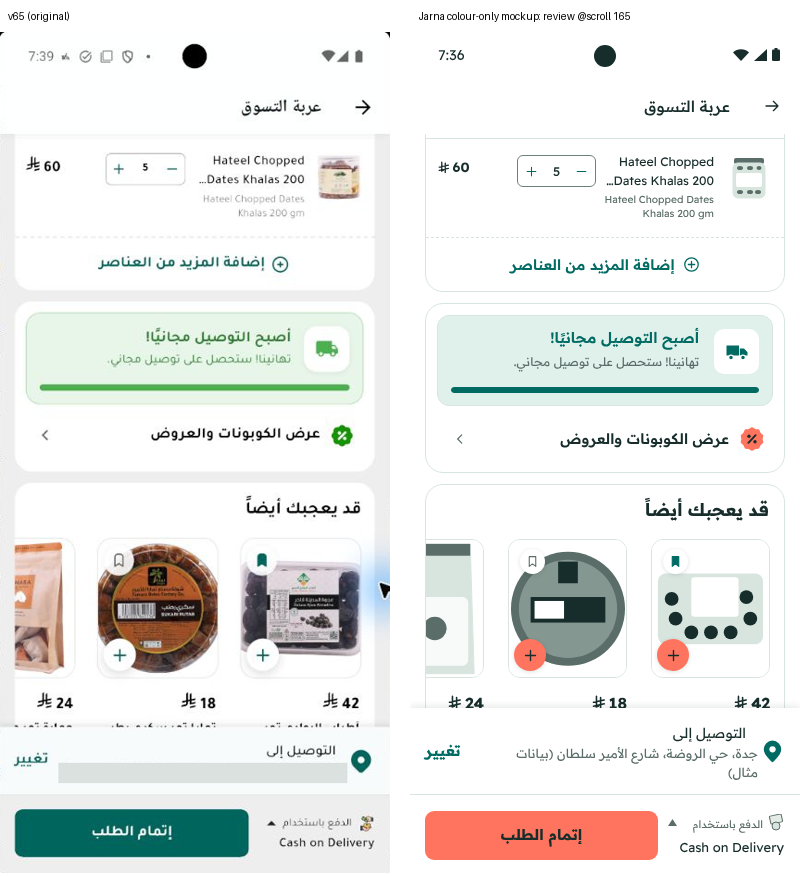
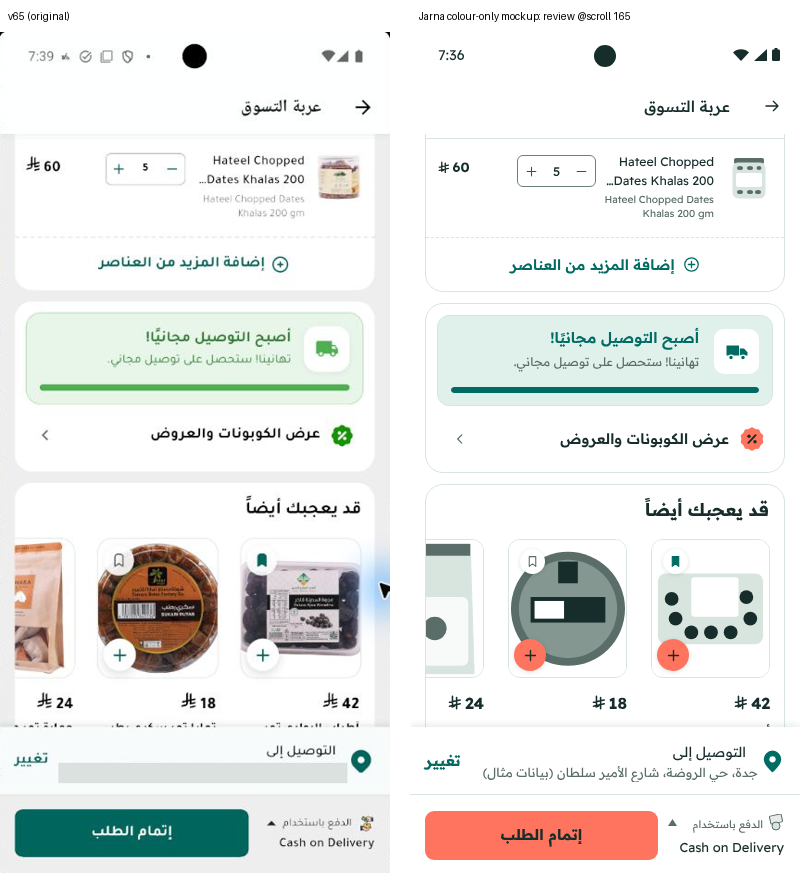
Fix cart/review critique items: address bar height, arrows, tags, borders, K7 alt, loading note
Claude-Session: https://claude.ai/code/session_01Qb8xUvC7Auf1qNT2o2kfnj

Changed region(s): [[0.5312, 0.8322, 0.9688, 0.8938]]

diff --git a/design/outputs/screens/HANDOFF-cart-review.md b/design/outputs/screens/HANDOFF-cart-review.md
@@ -5,6 +5,7 @@
 - **النطاق:** `CART-S01` (السلة) وحالة المراجعة منها (`CHECKOUT-02/03`)، وورقة اختيار العنوان (`CHECKOUT-04`).
 - **المراجع:** تقريرا `audit/cart-2026-10-20.md` و`audit/review-2026-10-20.md` (خرائط الألوان هي الدليل عنصراً بعنصر)، و`system/` (التوكنز)، ولقطات v65 في `design/inputs/drive/`.
 - **يُدمج لاحقاً في `HANDOFF.md`.** لم يُعدَّل `HANDOFF.md` ولا `CONFLICTS.md`.
+- **الجولة 2 (بعد `CRITIQUE-cart-review.md`):** نُفّذت البنود العشرة "يجب إصلاحه" وسبعة من "يُستحسن". التفاصيل في القسم 10.
 
 > **المراجعة ليست شاشة مستقلة.** في v65 هي شاشة السلة نفسها (العنوان «عربة التسوق»، ونفس البطاقات بنفس الترتيب)، والذي يتغير هو الشريط السفلي فقط: يظهر جزء طريقة الدفع، ويصبح الزر «إتمام الطلب» بعرض 233px تقريباً. على عبيد أن يبنيها حالةً من نفس الويدجت، لا شاشة جديدة.
 
@@ -19,7 +20,8 @@
 | `cart.html` | CART-04 (منتج واحد، قبل أهلية التوصيل المجاني، الملاحظة مطوية)، ويكمل بالتمرير إلى الإكرامية والفاتورة | `cart.png` | `cart-full.png` |
 | `cart-note-open.html` | CART-05 و06 و07 (الملاحظة مفتوحة) | `cart-note-open.png` | `cart-note-open-full.png` |
 | `cart-saved-location.html` | CART-01 (منتجان، التوصيل المجاني محقق، «قد يعجبك أيضاً»، الزر «احفظ هذا الموقع كعنوان») | `cart-saved-location.png` | `cart-saved-location-full.png` |
-| `cart-loading.html` | CART-03 (التحميل) | `cart-loading.png` | — |
+| `cart-loading.html` | CART-03 (التحميل)، الزر بلون التعطيل **مشروطاً** بملاحظة داخل النموذج | `cart-loading.png` | — |
+| `cart-loading-active.html` | CART-03، النسخة البديلة: الزر مرجاني فعّال كما يظهر في v65 | `cart-loading-active.png` | — |
 | `review.html` | CHECKOUT-02 و03 (قبل الإرسال) | `review.png` | `review-full.png` |
 | `review-plus-alt.html` | بديل K7 لنفس الحالة: «+» بإطار بترولي وتعبئة بيضاء | `review-plus-alt.png` | `review-plus-alt-full.png` |
 | `review-address-picker.html` | CHECKOUT-04 (ورقة «اختر عنوان التوصيل») | `review-address-picker.png` | — |
@@ -37,13 +39,13 @@
 | `cart-note-open-316_vs_CART-06.png` | الملاحظة والإكرامية (تمرير 316) |
 | `cart-note-open-492_vs_CART-07.png` | الإكرامية وأعلى الفاتورة (تمرير 492) |
 | `cart-saved-location_vs_CART-01.png` | السلة بمنتجين |
-| `cart-loading_vs_CART-03.png` | التحميل |
+| `cart-loading_vs_CART-03.png` | التحميل: v65، ثم النسخة المعطلة (مشروطة)، ثم النسخة المرجانية |
 | `review_vs_CHECKOUT-02.png` | المراجعة قبل الإرسال |
 | `review-165_vs_CHECKOUT-03.png` | المراجعة بعد التمرير إلى التوصيات |
 | `review-plus-alt-165_vs_CHECKOUT-03.png` | بديل K7 |
 | `review-address-picker_vs_CHECKOUT-04.png` | ورقة العنوان |
 
-**ملاحظة تقنية عن التصوير:** `scripts/screenshot.cjs --full` يرسم الشريط السفلي الثابت (fixed أو sticky) في منتصف الصفحة، لأن Playwright يحسب موضعه من نافذة 844. لذلك صُوّرت لقطات `-full.png` بفتح الملف مع `?full`، وهذا يضع الشريط في مجرى الصفحة بعد المحتوى (الصنف `.full` في `cart.css`). أما `<name>.png` فهو ناتج `screenshot.cjs` العادي (الإطار الأول 390×844). يُقترح تعديل السكربت لاحقاً ليمرر `?full` تلقائياً مع `--full`.
+**ملاحظة تقنية عن التصوير:** `<name>.png` ناتج `scripts/screenshot.cjs` دون `--full` (الإطار الأول 390×844). و`<name>-full.png` الصفحة كاملة بفتح الملف مع `?full`، وهذا يضع الشريط السفلي في مجرى الصفحة بعد المحتوى (الصنف `.full` في `cart.css`). السكربت يمرّر `?full` تلقائياً مع `--full`.
 
 ---
 
@@ -59,101 +61,109 @@
 | T6 | أزرار «+» في التوصيات (K7/C17): القاعدة كما هي (مرجاني برمز حبري) في `review.html`، والبديل بإطار بترولي وتعبئة بيضاء في `review-plus-alt.html` | K7 | لا تغيير. انظر القسم 6 |
 | T7 | منتقي العنوان: المختارة بحد بترولي 2px ورأس نعناعي، وغير المختارة بحد `#D8E5DF` بدل الأزرق `#CADDEB` | AUD-REV-11 | لا تغيير |
 | T8 | الحدود: حد التحكم `#6B8179` (الكمية، حقل الملاحظة، رقائق الإكرامية)، والفاصل `#D8E5DF` (البطاقات، الفواصل، المسار، المقبض) | C8، Q3 | لا تغيير |
+| X1 | **قرار:** عنوان لوحة التوصيل المجاني قبل الأهلية (F5) بترولي `#006B63` (5.47:1)، اتباعاً لقاعدة المكونات «التوصيل المجاني قبل الأهلية: … نص أخضر» لأنها توجيه، بدل الحبري في خريطة التدقيق | CRITIQUE X1 | لا تغيير. يُعرض على فضل: البديل هو الحبري `#172D2B` |
+| X4 | الشريط السفلي: ظل v65 فوقه (لا خط)، توحيداً مع تسليم الرئيسية. يبقى الفاصل الرفيع بين شريط العنوان وشريط الزر (P9) | CRITIQUE X4 | لا تغيير |
 | T9 | حد `#D8E5DF` حول كل بطاقة بيضاء، لأن الخلفية صارت بيضاء والبطاقات كانت تنفصل بالرمادي `#EEEEEE` | Q4 (قاعدة «البطاقة البيضاء»: حد خفيف عند الحاجة) | لا تغيير |
-| T10 | زر التحميل بلون التعطيل `#E5EBE7` ونص `#5A6D68` (4.54:1) | A10، AUD-CART-11 | لا تغيير. انظر القسم 5 |
-| T11 | التعتيم خلف الورقة `#172D2B` بشفافية 40% | C12 (prior-reference) | ينتظر الاعتماد |
+| T10 | زر التحميل بلون التعطيل `#E5EBE7` ونص `#5A6D68` (4.54:1) **مشروطاً** بأن يكون معطلاً فعلاً. وإلا فالنسخة المرجانية `cart-loading-active.html` | A10، AUD-CART-11 | لا تغيير. انظر القسم 5 |
+| T11 | التعتيم خلف الورقة `#172D2B` بشفافية 40% | C12 (prior-reference)، CRITIQUE X3 | ينتظر الاعتماد. **بديل لقرار فضل:** v65 المقاس أعتم، نحو 54% أسود (`#757575` فوق الأبيض). الأقرب إليه من الحبري نحو 55% |
 
 ---
 
 ## 3. الأدوار اللونية لكل عنصر
 
-الرموز (G1، I4، F7…) من خرائط تقريري التدقيق. التوكن هو المتغير في `tokens.css`.
+الرموز (G1، I4، F7…) من خرائط تقريري التدقيق. عمود CSS هو المتغير في `tokens.css`، وعمود Dart هو الثابت في `JarnaColors` (`system/jarna_colors.dart`).
 
 ### 3.1 الإطار والرأس
-| العنصر | v65 تقريباً | الآن | التوكن |
-|---|---|---|---|
-| G1 خلفية الصفحة | `#EEEEEE` | `#FFFFFF` | `--jarna-background` |
-| G2 البطاقات | `#FFFFFF` | `#FFFFFF` + حد `#D8E5DF` (T9) | `--jarna-surface`، `--jarna-border` |
-| G3 الرأس | أبيض | أبيض + خط سفلي `#D8E5DF` (انظر القسم 5) | `--jarna-surface`، `--jarna-border` |
-| G4/G5 «عربة التسوق» وسهم الرجوع | أسود | `#172D2B` | `--jarna-inner-header-title` |
+| العنصر | v65 تقريباً | الآن | CSS | Dart |
+|---|---|---|---|---|
+| G1 خلفية الصفحة | `#EEEEEE` | `#FFFFFF` | `--jarna-background` | `background` |
+| G2 البطاقات | `#FFFFFF` | `#FFFFFF` + حد `#D8E5DF` (T9) | `--jarna-surface`، `--jarna-border` | `surface`، `border` |
+| G3 الرأس | أبيض | أبيض، **بلا خط سفلي** | `--jarna-surface` | `surface` |
+| G4/G5 «عربة التسوق» وسهم الرجوع | أسود | `#172D2B` | `--jarna-inner-header-title` | `innerHeaderTitle` |
 
 ### 3.2 بطاقة «عناصر»
-| العنصر | الآن | التوكن |
-|---|---|---|
-| I1 «عناصر»، I5 اسم المنتج، I7 السعر، I11 رقم الكمية | `#172D2B` | `--jarna-text`، `--jarna-price` |
-| I2 «منتجان/منتج واحد»، I6 السطر الثاني | `#5A6D68` (5.49:1) | `--jarna-text-secondary` |
-| I3/I4 «مسح» | نص وأيقونة وحد `#B42318` على `#FFF0ED` | `--jarna-error`، `--jarna-error-surface` |
-| I8 حد محدد الكمية | `#6B8179` (4.17:1 غير نصي) | `--jarna-control-border` |
-| I9/I10 «+» و«−» | كلاهما `#006B63` (كانا مختلفين) | `--jarna-icon-action` |
-| الفاصل بين الصفوف، I12 الفاصل المتقطع | `#D8E5DF` | `--jarna-border` |
-| I13/I14 «إضافة المزيد من العناصر» وأيقونة ⊕ | `#006B63` (رابط تصفح، ليس إضافة منتج) | `--jarna-link` |
+| العنصر | الآن | CSS | Dart |
+|---|---|---|---|
+| I1 «عناصر»، I5 اسم المنتج، I7 السعر، I11 رقم الكمية | `#172D2B` | `--jarna-text`، `--jarna-price` | `text`، `price` |
+| I2 «منتجان/منتج واحد»، I6 السطر الثاني | `#5A6D68` (5.49:1) | `--jarna-text-secondary` | `textSecondary` |
+| I3/I4 «مسح» | نص وأيقونة وحد `#B42318` على `#FFF0ED` | `--jarna-error`، `--jarna-error-surface` | `error`، `errorSurface` |
+| I8 حد محدد الكمية (المحدد المحدَّد بإطار في السلة) | `#6B8179` (4.17:1 غير نصي) | `--jarna-control-border` | `controlBorder` |
+| I9/I10 «+» و«−» | كلاهما `#006B63` (كانا مختلفين) | `--jarna-icon-action` | `iconAction` |
+| الفاصل بين الصفوف، I12 الفاصل المتقطع | `#D8E5DF` | `--jarna-border` | `border` |
+| I13/I14 «إضافة المزيد من العناصر» وأيقونة ⊕ | `#006B63` (رابط تصفح، ليس إضافة منتج) | `--jarna-link` | `link` |
+
+> محدد الكمية في السلة **بإطار** كما في v65، فلا يستخدم `quantityStepper`/`onQuantityStepper` (الكبسولة الممتلئة في الرئيسية والفئات).
 
 ### 3.3 التوصيل المجاني والكوبونات
-| العنصر | الآن | التوكن |
-|---|---|---|
-| F1/F9 خلفية اللوحة (قبل الأهلية وبعدها) | `#E0F1EC` | `--jarna-supportive-panel` |
-| F2/F10 حد اللوحة | `#D8E5DF` | `--jarna-border` |
-| F3 مربع الشاحنة | `#FFFFFF` | `--jarna-surface` |
-| F4/F11 الشاحنة | `#006B63` | `--jarna-confirmed-free-delivery` |
-| F5 «احصل على توصيل مجاني» | `#172D2B` | `--jarna-text` |
-| F12 «أصبح التوصيل مجانيًا!» | `#006B63` (5.47:1 على النعناعي) | `--jarna-confirmed-free-delivery` |
-| F6 «أضف منتجات بقيمة 40 ⃁ إضافية»، F13 «تهانينا!…» | `#5A6D68` (4.70:1 على النعناعي) | `--jarna-text-secondary` |
-| F7/F14 التقدم | `#006B63` (T4) | `--jarna-confirmed-free-delivery` (مؤقتاً بدل `--jarna-free-delivery-progress`) |
-| F8 المسار | `#D8E5DF` | `--jarna-free-delivery-track` |
-| F15 أيقونة الكوبون | شارة `#FF745E` ورمز `#172D2B` | `--jarna-offer-icon`، `--jarna-on-offer-icon` |
-| F16 «عرض الكوبونات والعروض» | `#172D2B` | `--jarna-text` |
-| F17 السهم ‹ | `#5A6D68` | `--jarna-icon-neutral` |
+| العنصر | الآن | CSS | Dart |
+|---|---|---|---|
+| F1/F9 خلفية اللوحة (قبل الأهلية وبعدها) | `#E0F1EC` | `--jarna-supportive-panel` | `supportivePanel` |
+| F2/F10 حد اللوحة | `#D8E5DF` | `--jarna-border` | `border` |
+| F3 مربع الشاحنة | `#FFFFFF` | `--jarna-surface` | `surface` |
+| F4/F11 الشاحنة | `#006B63` | `--jarna-confirmed-free-delivery` | `confirmedFreeDelivery` |
+| F5 «احصل على توصيل مجاني» | `#006B63` (X1، قاعدة «نص أخضر») | `--jarna-confirmed-free-delivery` | `confirmedFreeDelivery` |
+| F12 «أصبح التوصيل مجانيًا!» | `#006B63` (5.47:1 على النعناعي) | `--jarna-confirmed-free-delivery` | `confirmedFreeDelivery` |
+| F6 «أضف منتجات بقيمة 40 ⃁ إضافية»، F13 «تهانينا!…» | `#5A6D68` (4.70:1 على النعناعي) | `--jarna-text-secondary` | `textSecondary` |
+| F7/F14 التقدم | `#006B63` (T4) | `--jarna-confirmed-free-delivery` (مؤقتاً بدل `--jarna-free-delivery-progress`) | `confirmedFreeDelivery` (مؤقتاً بدل `freeDeliveryProgress`) |
+| F8 المسار | `#D8E5DF` | `--jarna-free-delivery-track` | `freeDeliveryTrack` |
+| F15 أيقونة الكوبون | شارة `#FF745E` ورمز `#172D2B` | `--jarna-offer-icon`، `--jarna-on-offer-icon` | `offerIcon`، `onOfferIcon` |
+| F16 «عرض الكوبونات والعروض» | `#172D2B` | `--jarna-text` | `text` |
+| F17 السهم ‹ | `#5A6D68` | `--jarna-icon-neutral` | `iconNeutral` |
 
 ### 3.4 الملاحظة والإكرامية والفاتورة
-| العنصر | الآن | التوكن |
-|---|---|---|
-| N1 أيقونة الملاحظة | `#006B63` | `--jarna-icon-action` |
-| N2 العنوان، T2، T6 المبالغ، B1، B3، B4 | `#172D2B` | `--jarna-text`، `--jarna-price` |
-| N3 السهم ˅/˄، B2 أيقونات الفاتورة | `#5A6D68` | `--jarna-icon-neutral` |
-| N4 التلميح، N6 النص البديل، N7 «0/300»، T3، B5 التلميح تحت الرسوم | `#5A6D68` | `--jarna-text-secondary` |
-| N5 حد الحقل | `#6B8179`، والتركيز `#006B63` (غير مرسوم) | `--jarna-control-border`، `--jarna-focus-border` |
-| T4/T5 رقائق الإكرامية | خلفية `#FFFFFF` وحد `#6B8179` | `--jarna-surface`، `--jarna-control-border` |
-| T8 الرقاقة المختارة | **غير مرسومة** (لم تُصوَّر). المتوقع: خلفية `#E0F1EC` وحد `#006B63` ونص `#172D2B` | `--jarna-selection-*` |
-| B5 «أضف منتجات بقيمة 40 ⃁ للحصول على توصيل مجاني» | `#5A6D68` (كان بترولياً داكناً، لكنه ليس رابطاً) | `--jarna-text-secondary` |
+| العنصر | الآن | CSS | Dart |
+|---|---|---|---|
+| N1 أيقونة الملاحظة | `#006B63` | `--jarna-icon-action` | `iconAction` |
+| N2 العنوان، T2، T6 المبالغ، B1، B3، B4 | `#172D2B` | `--jarna-text`، `--jarna-price` | `text`، `price` |
+| N3 السهم ˅/˄، B2 أيقونات الفاتورة | `#5A6D68` | `--jarna-icon-neutral` | `iconNeutral` |
+| N4 التلميح، N6 النص البديل، N7 «0/300»، T3، B5 | `#5A6D68` | `--jarna-text-secondary` | `textSecondary` |
+| N5 حد الحقل | `#6B8179`، والتركيز `#006B63` (غير مرسوم) | `--jarna-control-border`، `--jarna-focus-border` | `controlBorder`، `focusBorder` |
+| T4/T5 رقائق الإكرامية | خلفية `#FFFFFF` وحد `#6B8179` | `--jarna-surface`، `--jarna-control-border` | `surface`، `controlBorder` |
+| T8 الرقاقة المختارة | **غير مرسومة** (لم تُصوَّر). المتوقع: خلفية `#E0F1EC` وحد `#006B63` ونص `#172D2B` | `--jarna-selection-*` | `selectionSurface`، `selectionIndicator`، `selectionLabel` |
+| B5 «أضف منتجات بقيمة 40 ⃁ للحصول على توصيل مجاني» | `#5A6D68` (ليس رابطاً) | `--jarna-text-secondary` | `textSecondary` |
 
 ### 3.5 الشريط السفلي
-| العنصر | الآن | التوكن |
-|---|---|---|
-| A1 خلفية شريط العنوان، P1 خلفية شريط الزر | كلاهما `#FFFFFF` (كانا `#F7FBFC` و`#EEEEEE`) | `--jarna-footer` |
-| A2 الحد العلوي، P9 الفاصل بين الشريطين | `#D8E5DF` | `--jarna-border` |
-| A3 أيقونة الموقع | `#006B63` | `--jarna-link` |
-| A4 «التوصيل إلى» | `#172D2B` | `--jarna-text` |
-| A5 سطر العنوان | `#5A6D68` (اللون الأصلي محجوب في اللقطة) | `--jarna-text-secondary` |
-| A6 «تغيير» | `#006B63` | `--jarna-link` |
-| A7/A8/A9/P6/P7 الزر الأساسي | `#FF745E` بنص `#172D2B` (5.47:1)، والضغط `#EC6E5A` | `--jarna-primary-action`، `--jarna-on-primary-action`، `--jarna-primary-action-pressed` |
-| A10 الزر أثناء التحميل | `#E5EBE7` بنص `#5A6D68` | `--jarna-disabled`، `--jarna-on-disabled` |
-| P3 «الدفع باستخدام» | `#5A6D68` | `--jarna-text-secondary` |
-| P4 السهم ▲ | `#5A6D68` (يصبح `#006B63` إن ثبت أنه يفتح الاختيار) | `--jarna-icon-neutral` |
-| P5 «Cash on Delivery» | `#172D2B` | `--jarna-text` |
+| العنصر | الآن | CSS | Dart |
+|---|---|---|---|
+| A1 خلفية شريط العنوان، P1 خلفية شريط الزر | كلاهما `#FFFFFF` (كانا `#F7FBFC` و`#EEEEEE`) | `--jarna-footer` | `footer` |
+| A2 أعلى الشريط | **ظل v65 كما هو** (X4)، لا خط | — | ظل التطبيق الحالي |
+| P9 الفاصل بين شريط العنوان وشريط الزر | `#D8E5DF` | `--jarna-border` | `border` |
+| A3 أيقونة الموقع | `#006B63` | `--jarna-link` | `link` |
+| A4 «التوصيل إلى» | `#172D2B` | `--jarna-text` | `text` |
+| A5 سطر العنوان (حتى سطرين) | `#5A6D68` | `--jarna-text-secondary` | `textSecondary` |
+| A6 «تغيير» | `#006B63` | `--jarna-link` | `link` |
+| A7/A8/A9/P6/P7 الزر الأساسي | `#FF745E` بنص `#172D2B` (5.47:1)، والضغط `#EC6E5A` | `--jarna-primary-action`، `--jarna-on-primary-action`، `--jarna-primary-action-pressed` | `primaryAction`، `onPrimaryAction`، `primaryActionPressed` |
+| A10 الزر أثناء التحميل (مشروط) | `#E5EBE7` بنص `#5A6D68` | `--jarna-disabled`، `--jarna-on-disabled` | `disabled`، `onDisabled` |
+| P3 «الدفع باستخدام» | `#5A6D68` | `--jarna-text-secondary` | `textSecondary` |
+| P4 السهم ▲ | `#5A6D68` (يصبح `#006B63` إن ثبت أنه يفتح الاختيار) | `--jarna-icon-neutral` | `iconNeutral` |
+| P5 «Cash on Delivery» | `#172D2B` | `--jarna-text` | `text` |
 
 ### 3.6 «قد يعجبك أيضاً»
-| العنصر | الآن | التوكن |
-|---|---|---|
-| V1 العنوان، V6c السعر، V7c الاسم | `#172D2B` | `--jarna-text`، `--jarna-price` |
-| V2c حد بطاقة المنتج | `#D8E5DF` | `--jarna-border` |
-| V3c زر «+» | `review.html`: دائرة `#FF745E` ورمز `#172D2B`. `review-plus-alt.html`: دائرة بيضاء بحد ورمز `#006B63` | `--jarna-primary-action` / `--jarna-link` |
-| V4c الحفظ (محفوظ) | `#006B63` | `--jarna-link` |
-| V5c الحفظ (غير محفوظ) | `#5A6D68` | `--jarna-icon-neutral` |
+| العنصر | الآن | CSS | Dart |
+|---|---|---|---|
+| V1 العنوان، V6c السعر، V7c الاسم | `#172D2B` | `--jarna-text`، `--jarna-price` | `text`، `price` |
+| V2c حد بطاقة المنتج | `#D8E5DF` | `--jarna-border` | `border` |
+| V3c زر «+» (`review.html`) | دائرة `#FF745E` ورمز `#172D2B`، مع ظل v65 | `--jarna-primary-action`، `--jarna-on-primary-action` | `primaryAction`، `onPrimaryAction` |
+| V3c زر «+» (`review-plus-alt.html`) | دائرة بيضاء بظل v65 **بلا حد**، ورمز `#006B63` (6.40:1). أي v65 مع تغيير لون الرمز فقط | `--jarna-surface`، `--jarna-link` | `surface`، `link` |
+| V4c الحفظ (محفوظ) | `#006B63` | `--jarna-link` | `link` |
+| V5c الحفظ (غير محفوظ) | `#5A6D68` | `--jarna-icon-neutral` | `iconNeutral` |
 
 ### 3.7 ورقة «اختر عنوان التوصيل»
-| العنصر | الآن | التوكن |
-|---|---|---|
-| S1 التعتيم | `#172D2B` 40% (T11) | `--jarna-overlay` |
-| S2 الورقة، S12 رأس البطاقة غير المختارة | `#FFFFFF` | `--jarna-surface` |
-| S3 المقبض | `#D8E5DF` | `--jarna-border` |
-| S4 العنوان، S5 ✕ | `#172D2B` | `--jarna-text` |
-| S6 «+ إضافة عنوان جديد» | `#006B63` | `--jarna-link` |
-| S7 السهم، S15 أيقونة الموقع | `#5A6D68` | `--jarna-icon-neutral` |
-| S8 حد المختارة، S10 علامة ✓ | `#006B63` | `--jarna-selection-indicator` |
-| S9 رأس المختارة | `#E0F1EC` | `--jarna-selection-surface` |
-| S11 حد غير المختارة | `#D8E5DF` | `--jarna-border` |
-| S13/S14 وسم «home» | خلفية `#E0F1EC` ونص `#006B63` (5.47:1، كان 2.76:1) | `--jarna-selection-surface`، `--jarna-link` |
-| S16 نص العنوان | السطر الأول `#172D2B`، والتفاصيل `#5A6D68` | `--jarna-text`، `--jarna-text-secondary` |
+| العنصر | الآن | CSS | Dart |
+|---|---|---|---|
+| S1 التعتيم | `#172D2B` 40% (T11) | `--jarna-overlay` | `overlay` |
+| S2 الورقة، S12 رأس البطاقة غير المختارة | `#FFFFFF`، **بلا فاصل** تحت الرأس | `--jarna-surface` | `surface` |
+| S3 المقبض | `#D8E5DF` | `--jarna-border` | `border` |
+| S4 العنوان، S5 ✕ | `#172D2B` | `--jarna-text` | `text` |
+| S6 «+ إضافة عنوان جديد» | `#006B63`، والبطاقة بيضاء بظل v65 **بلا حد** | `--jarna-link` | `link` |
+| S7 السهم › (يشير يميناً كما في v65)، S15 أيقونة الموقع | `#5A6D68` | `--jarna-icon-neutral` | `iconNeutral` |
+| S8 حد المختارة، S10 علامة ✓ | `#006B63` | `--jarna-selection-indicator` | `selectionIndicator` |
+| S9 رأس المختارة | `#E0F1EC` | `--jarna-selection-surface` | `selectionSurface` |
+| S11 حد غير المختارة | `#D8E5DF` | `--jarna-border` | `border` |
+| S13 كبسولة «home»: المختارة | **بيضاء** على الرأس النعناعي (كي لا تختفي) | `--jarna-surface` | `surface` |
+| S13 كبسولة «home»: غير المختارة | `#E0F1EC` | `--jarna-selection-surface` | `selectionSurface` |
+| S14 نص «home» (≈12px كما في v65) | `#006B63` (5.47:1 على النعناعي، 6.40:1 على الأبيض؛ كان 2.76:1) | `--jarna-link` | `link` |
+| S16 نص العنوان | السطر الأول `#172D2B`، والتفاصيل `#5A6D68` | `--jarna-text`، `--jarna-text-secondary` | `text`، `textSecondary` |
 
 ---
 
@@ -185,13 +195,15 @@
 | الفرق | السبب | هل يدخل في Flutter؟ |
 |---|---|---|
 | الخط Readex Pro بدل خط التطبيق | لا يوجد ملف خط التطبيق في مساحة العمل، وReadex Pro أقرب خط ويب مطابق. الأحجام ضُبطت بصرياً لتطابق عرض النصوص في اللقطات | **لا.** يبقى خط التطبيق الحالي |
-| صور المنتجات والرسوم (الإكرامية، أيقونة النقد) أشكال SVG بسيطة | قيد «لا أصول حقيقية ولا شعارات» | **لا.** تبقى الصور والأصول الأصلية بلا تلوين |
+| صور المنتجات والرسوم (الإكرامية، أيقونة النقد) أشكال SVG بسيطة **بألوان محايدة** (رمادي `#E5EBE7` و`#D8E5DF` و`#5A6D68`)، بلا كهرماني أو مرجاني أو بترولي | قيد «لا أصول حقيقية ولا شعارات»، وقاعدة «لا تضاف الألوان الدلالية للتزيين» | **لا.** تبقى الصور والأصول الأصلية بلا تلوين |
 | رمز الريال ⃁ مرسوم SVG تقريبي | الخطوط المتاحة لا تحوي U+20C1 | **لا.** يبقى رمز v65 |
 | الأيقونات مرسومة يدوياً بنفس الشكل والحجم تقريباً | لا توجد ملفات أيقونات التطبيق | **لا.** تبقى أيقونات التطبيق، ويتغير لونها فقط |
-| حد `#D8E5DF` حول البطاقات، وخط تحت الرأس، وفاصل بين شريط العنوان وشريط الزر | الفصل كان بالخلفية الرمادية، وبعد توحيد الأبيض تتلاصق الطبقات. هي حدود لونية على عناصر قائمة دون تغيير مقاس أو مسافة (T9، P9). خط الرأس إضافتي أنا للسبب نفسه، ولم يرد في التدقيق | **نعم، بعد قرار Q4.** خط الرأس يحتاج موافقة صريحة |
-| الزر في حالة التحميل رمادي (تعطيل) وليس بترولياً فعّال الشكل | خريطة التدقيق (A10). لكن سلوك الزر أثناء التحميل **غير متحقق** | **نعم بشرط:** أن يكون الزر معطلاً فعلاً (`onPressed: null`) أثناء التحميل. إن بقي قابلاً للضغط فلا يُلوَّن رمادياً |
-| بطاقة العنوان غير المختارة: خط فاصل `#D8E5DF` تحت رأسها | في v65 كان رأسها `#FAFAFA` يميزه عن الجسم، وبعد الأبيض يلزم فاصل | نعم (لون فقط) |
-| ظل خفيف (مشتق من الحبري بشفافية 8% إلى 14%) على «إضافة عنوان جديد» وأزرار الدوائر في التوصيات | محاكاة الظل الموجود في v65 | لا، يبقى ظل التطبيق كما هو |
+| حد `#D8E5DF` حول البطاقات، وفاصل بين شريط العنوان وشريط الزر | الفصل كان بالخلفية الرمادية، وبعد توحيد الأبيض تتلاصق الطبقات. حدود لونية على عناصر قائمة دون تغيير مقاس أو مسافة (T9، P9، وأقرّهما الناقد) | **نعم، بعد قرار Q4** |
+| (حُذف في الجولة 2) خط تحت الرأس، وحد بطاقة «إضافة عنوان جديد»، وفاصل رأس البطاقة غير المختارة | غير موجودة في v65 ولم يطلبها التدقيق (CRITIQUE 7 و8 و9) | — |
+| الزر في حالة التحميل رمادي (تعطيل) في `cart-loading.html`، مع ملاحظة «مشروط» داخل النموذج، ونسخة مرجانية فعّالة في `cart-loading-active.html` | خريطة التدقيق (A10). سلوك الزر أثناء التحميل **غير متحقق**، وفي CART-03 يظهر فعّالاً | **نعم بشرط:** الرمادي فقط إن كان الزر معطلاً فعلاً (`onPressed: null`). وإلا فالنسخة المرجانية |
+| رأس البطاقة غير المختارة أبيض بلا فاصل | `#FAFAFA` في v65 مقابل `#FFFFFF` (1.04:1) لا يكاد يُرى، فتوحيده بالأبيض لا يُفقد شيئاً | نعم (لون فقط) |
+| شريط العنوان: ارتفاعه يتبع عدد أسطر العنوان (≈67px لسطر، ≈86px لسطرين)، والنص يلتف بحد سطرين | مطابقة v65 (CART-04 سطر واحد، CART-01 سطران). `cart-saved-location.html` بسطرين، والبقية بسطر | لا تغيير: هذا سلوك الكود الحالي |
+| ظلال خفيفة على «إضافة عنوان جديد» وأزرار الدوائر في التوصيات وأعلى الشريط السفلي | محاكاة ظلال v65. معرّفة في `cart.css` كمتغيرات محلية `--cart-shadow-*` مشتقة من `--jarna-ink` بـ `color-mix` (بلا rgba خام، وبحالة derived للنموذج فقط) | لا، تبقى ظلال التطبيق كما هي |
 | فروق 1 إلى 4px في بعض المواضع | قياس من لقطات 423px مصغرة | لا، المرجع أبعاد الكود الحالي |
 | ملاحظتا نموذج بإطار متقطع (أسفل الفاتورة، وأسفل التوصيات في المراجعة) | توضيح أن ما بعدها لم يُصوَّر في v65 ولم يُرسم | لا، ليستا جزءاً من الواجهة |
 | خلفية ورقة العنوان: السلة مُمرَّرة 60px | مطابقة لقطة CHECKOUT-04 | — |
@@ -209,13 +221,14 @@
 | المراجعة قبل الإرسال | `review.html` | نعم (CHECKOUT-02، 03) |
 | بديل «+» في التوصيات (K7) | `review-plus-alt.html` | — (بديل لوني للمقارنة) |
 | ورقة العنوان، الأول مختار | `review-address-picker.html` | نعم (CHECKOUT-04) |
+| التحميل بزر فعّال (بديل T10) | `cart-loading-active.html` | نعم (CART-03 يُظهر الزر فعّالاً) |
 | ضغط الزر الأساسي | `:active` في `cart.css` (`#EC6E5A`) | لا |
 
 **لم تُفرض حالات غير مُصوَّرة:** الرقاقة المختارة في الإكرامية، وتركيز حقل الملاحظة، والإرسال وفشله، والخطأ، والسلة الفارغة، وتأكيد الإفراغ (مقترح منفصل). ألوانها معرّفة في التوكنز، لكنها غير مرسومة هنا.
 
 ### K7: مقارنة زر «+» في التوصيات (للقرار)
 - `review.html`: مرجاني برمز حبري، وفق القاعدة. الرمز 5.47:1 على المرجاني، لكن **الدائرة المرجانية على الأبيض 2.65:1، أقل من 3:1** للعنصر غير النصي. ويرفع بروز الترويج في خطوة الإتمام (معيار BRIEF 2).
-- `review-plus-alt.html`: دائرة بيضاء بحد ورمز بترولي `#006B63` (6.40:1). أهدأ، فلا ينافس «إتمام الطلب»، ويجتاز التباين. لكنه يخالف قاعدة «الإضافة مرجانية» إن طُبّقت حرفياً.
+- `review-plus-alt.html`: شكل v65 بالضبط (دائرة بيضاء بظل، **بلا حد**)، والتغيير لون الرمز فقط إلى بترولي `#006B63` (6.40:1). أهدأ، فلا ينافس «إتمام الطلب»، ويجتاز التباين. لكنه يستثني «+» التوصيات من قاعدة «الإضافة مرجانية» (C17). الناقد يميل إليه لحالة المراجعة فقط. القرار لفضل.
 - قارن: `compare/review-165_vs_CHECKOUT-03.png` و`compare/review-plus-alt-165_vs_CHECKOUT-03.png`.
 
 ---
@@ -223,7 +236,7 @@
 ## 7. ملاحظات لعبيد
 
 1. **حالة لا شاشة:** المراجعة = السلة + شريط سفلي مختلف. لا تُنشئ Route جديداً.
-2. **النص على المرجاني حبري دائماً** (`JarnaColors.onPrimaryPurchaseAction`). الأبيض على المرجاني 2.65:1، ممنوع.
+2. **النص على المرجاني حبري دائماً** (`JarnaColors.onPrimaryAction`). الأبيض على المرجاني 2.65:1، ممنوع.
 3. **شريط التقدم:** استخدم `JarnaColors.confirmedFreeDelivery` (البترولي) للجزء المكتمل مؤقتاً، **لا** `freeDeliveryProgress` الحالي في `jarna_colors.dart` (مرجاني). الامتلاء من اليمين في RTL كما في v65.
 4. **«+» و«−» في محدد الكمية بنفس اللون** `#006B63`. لا تُفتّح «−» إلا إن كان معطلاً فعلاً.
 5. **«مسح» أحمر** `#B42318` على `#FFF0ED`، والنص «مسح» كما هو. لا مرجاني ولا «متابعة».
@@ -231,6 +244,10 @@
 7. **حدود التحكم** `#6B8179`، **والفواصل** `#D8E5DF`. لا تخلط بينهما: الأولى تحدد متحكماً، والثانية زخرفية.
 8. لا تنقل أي قيمة من صور PNG. القيم من `system/jarna-tokens.json`.
 9. لا تغيير في: الأحجام، والمسافات، والانحناءات، والأيقونات، والخط، وترتيب البطاقات، وعرض زر «إتمام الطلب»، وموضع طريقة الدفع.
+10. **أهداف اللمس:** «مسح» (66×29 تقريباً)، والسهم ▲، و«تغيير»، و«+»/«−» أصغر من 44×44 في الشكل. لا تكبّر الشكل المرئي، بل كبّر منطقة اللمس فقط (`padding` شفاف، أو `MaterialTapTargetSize.padded`، أو `GestureDetector` بحجم أدنى 44×44) حتى تبلغ 44×44.
+11. **ارتفاع شريط العنوان يتبع طول العنوان** كما في الكود الحالي (سطر أو سطران). لا تثبّته على 85.
+12. **الظلال:** يبقى ظل الشريط السفلي وظل بطاقة «إضافة عنوان جديد» وظل دوائر التوصيات كما في التطبيق. لا تضف حدوداً بدلها.
+13. **سهم «إضافة عنوان جديد» يشير يميناً** كما في v65، بخلاف سهم «عرض الكوبونات والعروض». لا تغيّر الأيقونات.
 
 ---
 
@@ -256,3 +273,29 @@
 | `review-total-in-button.html` (+`.png`) | الإجمالي سطراً ثانياً داخل «إتمام الطلب» و«اختر طريقة الدفع» | **Next، حرج قبل الإطلاق** | منخفضة: نصف يوم إلى يوم | Backend: الإجمالي النهائي في استجابة السلة. قرار Q6/Q-R1/Q-R2 |
 | `cart-empty-confirm.html` (+`.png`) | ورقة تأكيد «تفرّغ السلة؟» قبل الإفراغ، بزر أحمر ممتلئ و«رجوع» بترولي | **Next، حرج قبل الإطلاق** | منخفضة: نحو نصف يوم (مكون الورقة موجود) | Backend: نطاق الإفراغ. قرار النصوص ولون زر الإتلاف (C12) |
 | `review-stage-clarity.html` (+`.png`) | عنوان «مراجعة الطلب» في حالة المراجعة، و«طريقة الدفع: الدفع عند الاستلام» | **Next** | منخفضة جداً: نحو ساعتين | Backend إن كانت قيمة الدفع من الخادم |
+
+---
+
+## 10. سجل الجولة 2 (إصلاحات `CRITIQUE-cart-review.md`)
+
+| بند النقد | الإصلاح | الملفات |
+|---|---|---|
+| 1 ارتفاع شريط العنوان | يتبع عدد الأسطر (≈67/≈86px)، والنص يلتف بحد سطرين بدل القص | `cart.css` (`.addr`، `.addr .line`)، وكل النماذج |
+| 2 السهم المقلوب | رمز جديد `#i-chev-r` يشير يميناً في «إضافة عنوان جديد» فقط | `review-address-picker.html` |
+| 3 كبسولة «home» المختارة | بيضاء `--jarna-surface` على الرأس النعناعي | `cart.css` |
+| 4 F5 | بترولي `--jarna-confirmed-free-delivery` وفق القاعدة، وسُجّل X1 قراراً في القسم 2 | `cart.css`، القسمان 2 و3.3 |
+| 5 اسم Dart | `JarnaColors.onPrimaryAction`، وعمود Dart في كل جداول القسم 3 | هذا الملف |
+| 6 التحميل | ملاحظة «مشروط» داخل `cart-loading.html`، ونسخة مرجانية `cart-loading-active.html`، ومقارنة ثلاثية | `cart-loading*.html`، `compare/cart-loading_vs_CART-03.png` |
+| 7 خط الرأس | حُذف | `cart.css` |
+| 8 حد «إضافة عنوان جديد» | حُذف، والظل باقٍ | `cart.css` |
+| 9 فاصل رأس البطاقة غير المختارة | حُذف | `cart.css` |
+| 10 بديل K7 | دائرة بيضاء بظل v65 بلا حد، ورمز بترولي | `cart.css` |
+| يُستحسن 1 (X3) | T11 باقٍ مؤقتاً، وأضيف بديل v65 (≈54% أسود) لقرار فضل | القسم 2 |
+| يُستحسن 2 (X4) | ظل v65 أعلى الشريط بدل الخط | `cart.css`، القسمان 2 و3.5 |
+| يُستحسن 3 | الصور النائبة رمادية محايدة | كل النماذج والمقترحات |
+| يُستحسن 4 | الظلال متغيرات `--cart-shadow-*` مشتقة من `--jarna-ink` بلا rgba، و`--jarna-control-border` بدل `--jarna-border-control` | `cart.css` |
+| يُستحسن 5 | «home» بحجم 12px | `cart.css` |
+| يُستحسن 7 | ملاحظة أهداف اللمس لعبيد | القسم 7 بند 10 |
+| يُستحسن 8 | حُذفت العبارة القديمة عن السكربت | القسم 1 |
+
+**لم يُلمس:** ملفات `system/` (ومنها إضافات `quantityStepper` و`onQuantityStepper`)، و`freeDeliveryProgress` (بانتظار فضل)، و`HANDOFF.md`، و`CONFLICTS.md`. التعارضات X1 إلى X6 من النقد تحتاج إضافتها إلى `CONFLICTS.md` من المنسق أو فضل.
